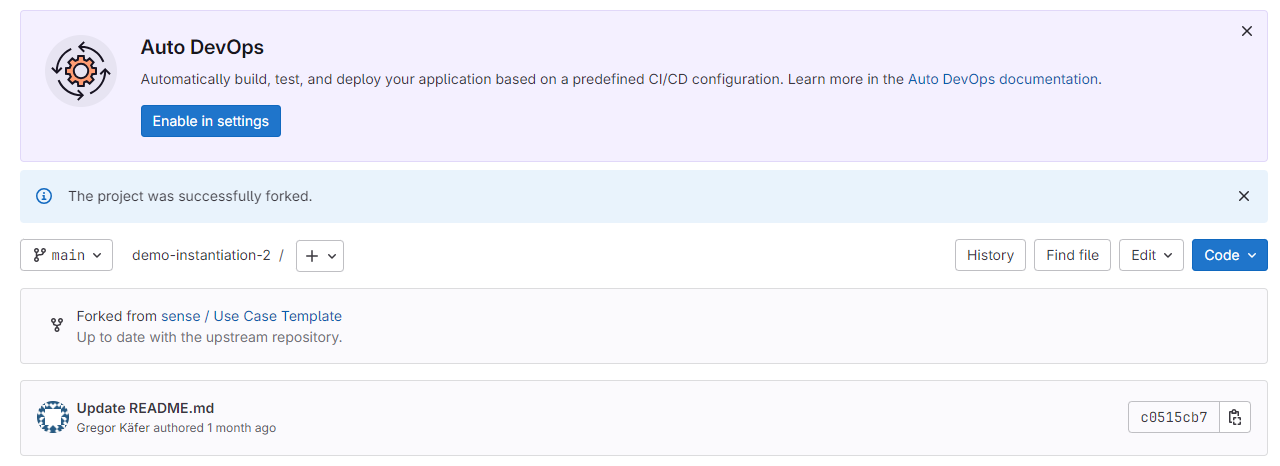
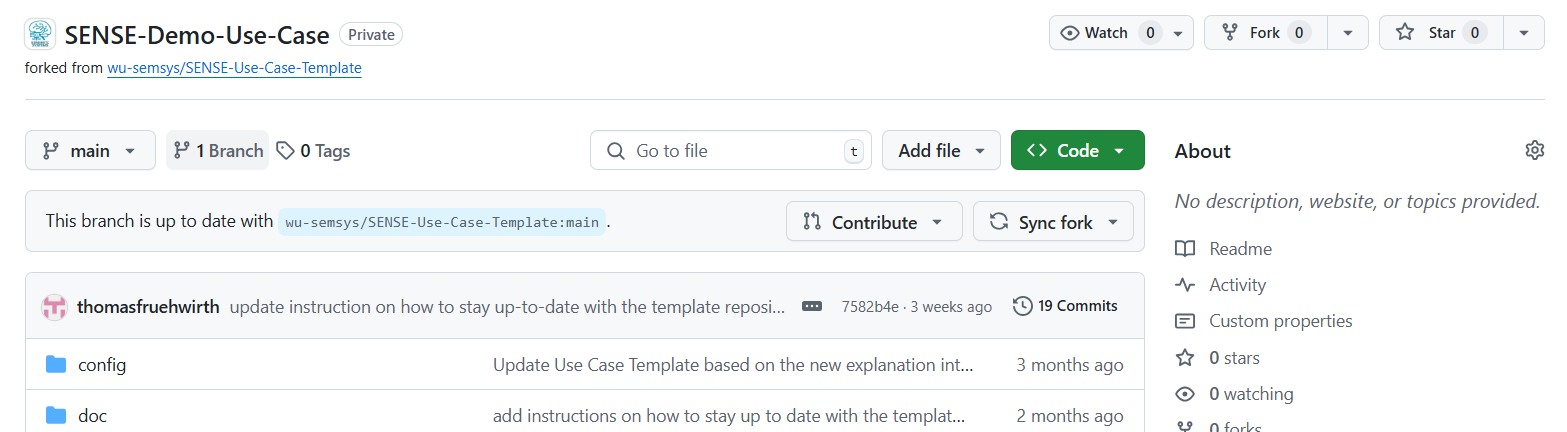
implement changes necessary to migrate from internal GitLab to public GitHub

diff --git a/README.md b/README.md
@@ -1,6 +1,6 @@
 # Use Case Template
 
-We provide this Use Case Template repository as a starting point for creating a new SENSE instance from the [SENSE Core](https://git.ai.wu.ac.at/sense/sense-core). Check out the SENSE Core documentation for information about the general concept and detailed information about the individual modules.
+We provide this Use Case Template repository as a starting point for creating a new SENSE instance from the [SENSE Core](https://github.com/wu-semsys/SENSE-Core). Check out the SENSE Core documentation for information about the general concept and detailed information about the individual modules.
 
 ## Table of Conents
 - [SENSE Use Case Instantiation Instructions](#sense-use-case-instantiation-instructions)
@@ -14,22 +14,24 @@ We provide this Use Case Template repository as a starting point for creating a 
 - [8. Stay Up to Date With the Template Repository](#8-stay-up-to-date-with-the-template-repository)
 
 ## SENSE Use Case Instantiation Instructions
-There are several steps listed below that will create a new use-case-specific repository from this Use Case Template repository and populate the template with use-case-specific information. Note that, on several occasions, it is necessary to define a name for the use case. We use USE_CASE_NAME as a placeholder. 
+There are several steps listed below that will create a new use-case-specific repository from this Use Case Template repository and populate the template with use-case-specific information. Note that, on several occasions, it is necessary to define a name for the use case. We use use_case_name as a placeholder. 
 
 ### 1. Fork the SENSE Use Case Template
-If your use-case-specific instance of SENSE should be hosted on the same Git server as this Use Case Template repository, utilize the built-in fork functionality to create a fork of this repository.
+#### Option 1: Host the Use Case on GitHub
+If your use-case-specific instance of SENSE should be hosted on GitHub, utilize the GitHub fork functionality to create a fork of this repository.
 
+#### Option 2: Host on a Different Git Server
 If you need to host your use-case-specific instance of SENSE on a different Git server, follow the steps below:
 1. Create an empty repository on your Git server, but do not initialize it with any files
-2. Clone the repository you've just created to your local machine using the following commands:
+2. Clone the repository you've just created to your local machine using the following commands (adjust the placeholders accordingly):
 ```bash
-git clone git@git.auto.tuwien.ac.at:tfruehwirth/USE_CASE_NAME.git
-cd USE_CASE_NAME
+git clone git@git_server_url:git_username_or_organization/use_case_name.git
+cd use_case_name
 ```
 
 2. Add the Use Case Template repository as remote repository named "upstream":
 ```bash
-git remote add upstream git@git.ai.wu.ac.at:sense/use-case-template.git
+git remote add upstream https://github.com/wu-semsys/SENSE-Use-Case-Template.git
 ```
 3. Fetch the latest changes from the remote repository "upstream" using the command:
 ```bash
@@ -40,7 +42,8 @@ git fetch upstream
 git merge remotes/upstream/main
 ```
 
-This will result in a repository with the following file structure:
+#### Resulting File Structure
+Either way, forking the repository will result in the following file structure:
 
 ```bash
 ├── README.md (# this README file)
@@ -60,7 +63,9 @@ This will result in a repository with the following file structure:
     └── XLSXtoTTL.py # script for converting SystemData.xlsx to system-data.ttl
 ```
 
-Note: The USE_CASE_NAME placeholder is currently quite havily used. We are working on reducing the number of occurances. We suggest search-and-replace for replacing the USE_CASE_NAME with an expressive name for your use case. For now, it is present in the following files:
+#### Replacing the use_case_name Placeholder with an Expressive Name
+
+Note: The use_case_name placeholder is currently quite havily used. We are working on reducing the number of occurances. We suggest search-and-replace for replacing the use_case_name with an expressive name for your use case. For now, it is present in the following files:
 Note: In config.json, keys labeled with (Optional) can be fully removed and should only be included if needed. (If you choose to use them, be sure to remove the (Optional) text from their names)
 
 ```bash
@@ -70,7 +75,7 @@ Note: In config.json, keys labeled with (Optional) can be fully removed and shou
 ```
 
 ### 2. Prepare the Use-Case-Specific Information
-Follow our [Guide]() (TODO: add link to the guide on the necessary steps for analyzing the data, identifying relevant events, and defining appropriate explanations). During this step, the use-case-specific information will be collected and used to populate the [SystemData.xlsx](./infrastructure/knowledgebase/SystemData.xlsx) file. 
+Follow our user guideline that we published as part of the SENSE Deliverable D5.1 [SENSE Deliverables](https://sense-project.net/deliverables/). During this step, the use-case-specific information will be collected and used to populate the [SystemData.xlsx](./infrastructure/knowledgebase/SystemData.xlsx) file. 
 
 ### 3. Generate system-data.ttl 
 The [SystemData.xlsx](./infrastructure/knowledgebase/SystemData.xlsx) has to be converted to a Turtle (ttl) file, before it can be used by the SENSE system. We provide a script for this purpose.
@@ -82,53 +87,45 @@ cd tools
 pip install -r requirements.txt
 
 # create system-data.ttl from SystemData.xlsx
-python3 XLSXtoTTL.py "http://example.org/USE_CASE_NAME#" \
+python3 XLSXtoTTL.py "http://example.org/use_case_name#" \
     ../infrastructure/knowledgebase/SystemData.xlsx \
     ../infrastructure/knowledgebase/data/system-data.ttl \
     --shacl-path "../infrastructure/knowledgebase/sense-validation v1.0.shacl"
 ```
 
 ### 4. Set up a Connection to an Existing InfluxDB Instance
-The SENSE system needs to connect to an existing InfluxDB database to access data that should be monitored and explained. Additional information on how to configure the data-ingestion module accordingly is provided in the [README file of the data-ingestion module](https://git.ai.wu.ac.at/sense/sense-core/-/blob/main/sense_core/data_ingestion/README.md)
+The SENSE system needs to connect to an existing InfluxDB database to access data that should be monitored and explained. Additional information on how to configure the data-ingestion module accordingly is provided in the [README file of the data-ingestion module](https://github.com/wu-semsys/SENSE-Core/blob/main/sense_core/data_ingestion/README.md)
 
-### 5. Optional: Build the Docker Images
-We provide pre-built images via [registry.ai.wu.ac.at](registry.ai.wu.ac.at). However, if you would rather build the images locally, you can use the Dockerfiles/Containerfiles provided in the [SENSE Core](https://git.ai.wu.ac.at/sense/sense-core) repository under the sense_core directory. As an example, the knowledgebase image can be built with:
-
-```bash
-cd sense-core/sense_core
-docker build --tag sense-core/knowledgebase:latest -f knowledgebase.amd64.Containerfile .
+### 5. Build the Docker Images
+You need to create Docker images of the SENSE Core modules before running the application:
+```
+cd sense_core
+docker build -t sense-core/data-ingestion:v1.0 -f data_ingestion.Containerfile .
+docker build -t sense-core/event-to-state-causality:v1.0 -f event_to_state_causality.Containerfile .
+docker build -t sense-core/explanation-interface:v1.0 -f explanation_interface.Containerfile .
+docker build -t sense-core/knowledgebase:v1.0 -f knowledgebase.amd64.Containerfile .
+docker build -t sense-core/semantic-event-log-bridge:v1.0 -f semantic_event_log_bridge.Containerfile .
+docker build -t sense-core/simple-event-detection:v1.0 -f simple_event_detection.Containerfile .
 ```
 
 ### 6. Run the Application
-If you want to use our pre-built images, you need to login into the container registry so that you can access the images. Once logged in, simply spin up your compose tool of choice to get a running system.
-
+Once the images are available locally and everything is configured as outlined in the previous steps, you can start the use-case-specific SENSE instance using
 ```bash
-docker login -u <your-email> -p <api-token> registry.ai.wu.ac.at
-docker compose up
-```
-
-Alternatively, if you want to use the Docker image you built locally in the [previous step](#5-optional-build-the-docker-images), you need to adjust the [compose.yml](compose.yml) file accordingly. E.g., for the knowledgebase module, you need to replace 
-
-```image: registry.ai.wu.ac.at/sense/sense-core/knowledgebase:latest``` 
-
-with ```image: sense-core/knowledgebase:latest```. 
-
-Then, start the application with:
-```
 docker compose up
 ```
 
 ### 7. Request Events and Explanations
 
-Refer to [https://git.ai.wu.ac.at/sense/sense-core/-/blob/main/sense_core/simple_event_detection/README.md](https://git.ai.wu.ac.at/sense/sense-core/-/blob/main/sense_core/simple_event_detection/README.md) for instructions on how to retrieve a list of **events** from your SENSE system instantiation.
+Refer to [https://github.com/wu-semsys/SENSE-Core/blob/main/sense_core/simple_event_detection/README.md](https://github.com/wu-semsys/SENSE-Core/blob/main/sense_core/simple_event_detection/README.md) for instructions on how to retrieve a list of **events** from your SENSE system instantiation.
 
-Refer to [https://git.ai.wu.ac.at/sense/sense-core/-/tree/main/sense_core/explanation-interface/README.md](https://git.ai.wu.ac.at/sense/sense-core/-/tree/main/sense_core/explanation-interface/README.md) for instructions on how to retrieve **explanations** for events from your SENSE system instantiation. 
+Refer to [https://github.com/wu-semsys/SENSE-Core/blob/main/sense_core/explanation-interface/README.md](https://github.com/wu-semsys/SENSE-Core/blob/main/sense_core/explanation-interface/README.md) for instructions on how to retrieve **explanations** for events from your SENSE system instantiation. 
 
 ### 8. Stay Up to Date With the Template Repository
 While working on your use case, the SENSE team might push changes to the template repository, such as support for additional event and explanation types. To stay updated, you can either use the builtin options of GitLab or the Git Command Line Interface (CLI).
 
 #### Sync via the GitLab User Interface
-GitLab will keep you informed about changes in the template repository.
+GitHub will keep you informed about changes in the template repository. In the screenshot below, it's up to date:
+
 ![alt](./doc/sync-up-to-date.png)
 
 #### Sync via the CLI
@@ -141,7 +138,7 @@ git checkout -b feature/merge-template-update
 Next, add the template repository to your use case repository as a secondary remote called ```upstream```.
 
 ```bash
-git remote add upstream git@git.ai.wu.ac.at:sense/use-case-template.git
+git remote add upstream https://github.com/wu-semsys/SENSE-Use-Case-Template.git
 ```
 
 Next, pull the main branch of the upstream (template) repository. 
